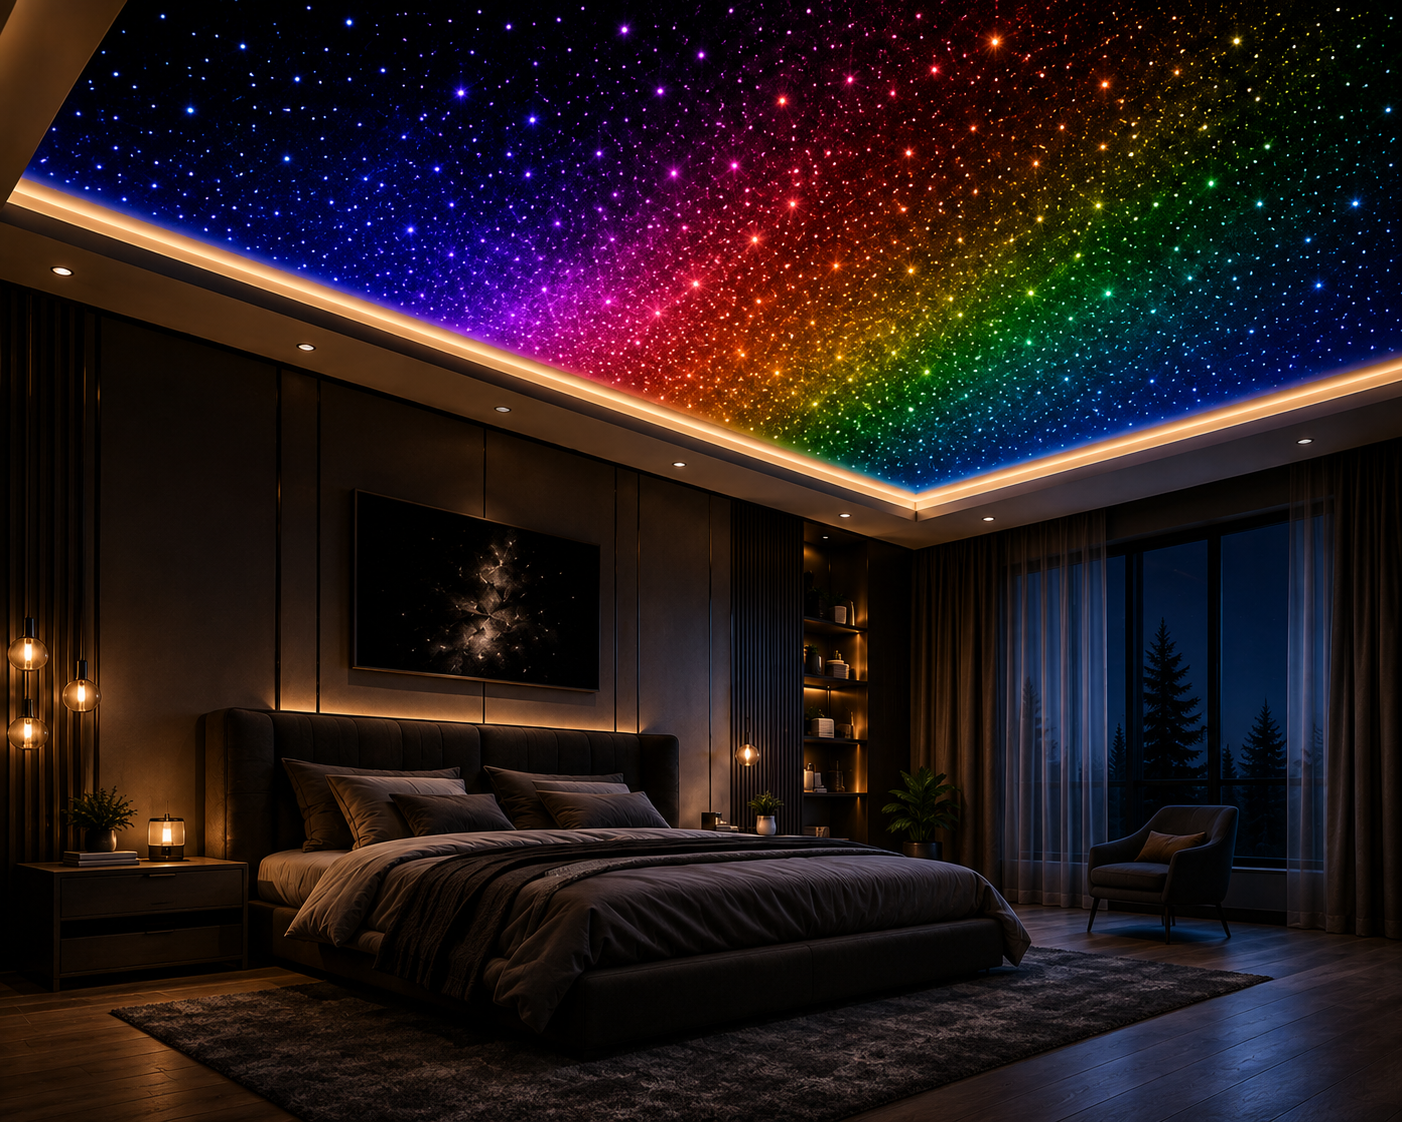
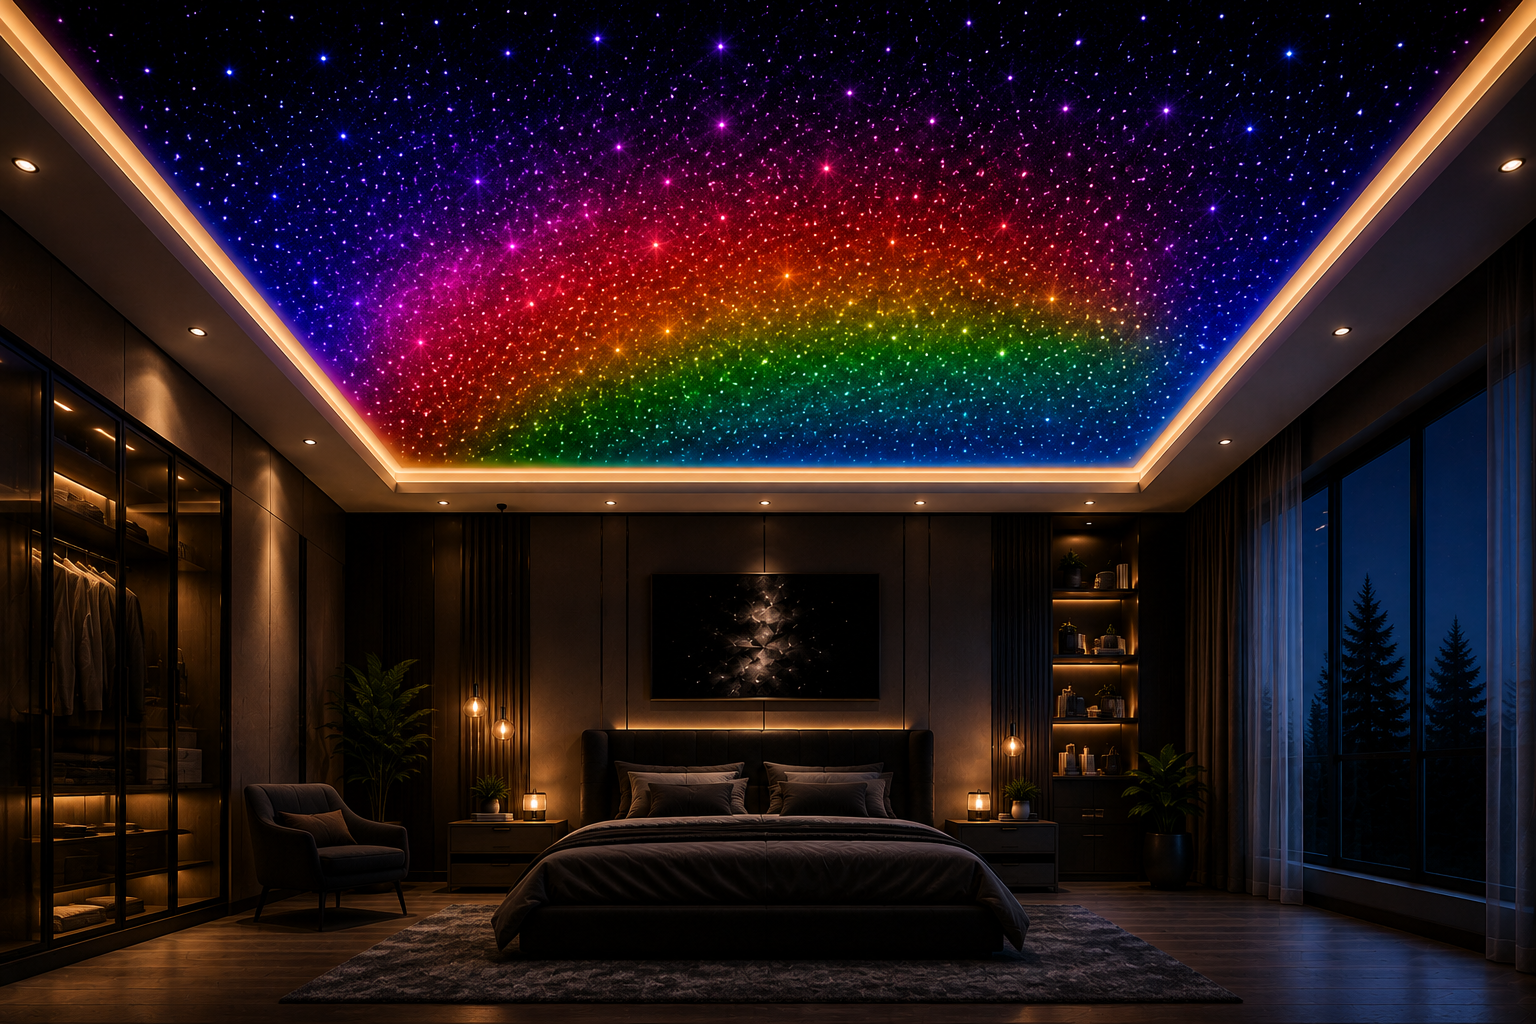
s

diff --git a/src/pages/Servicesnewpages/FiberskyGalaxy.jsx b/src/pages/Servicesnewpages/FiberskyGalaxy.jsx
@@ -25,7 +25,7 @@ const FiberskyGalaxy = () => {
   <div className="absolute inset-0">
 
     <img
-      src="/service/galaxy-product.png"
+      src="/service/galaxy.png"
       alt="FIBERSKY GALAXY PRO"
       className="h-full w-full object-cover"
     />
